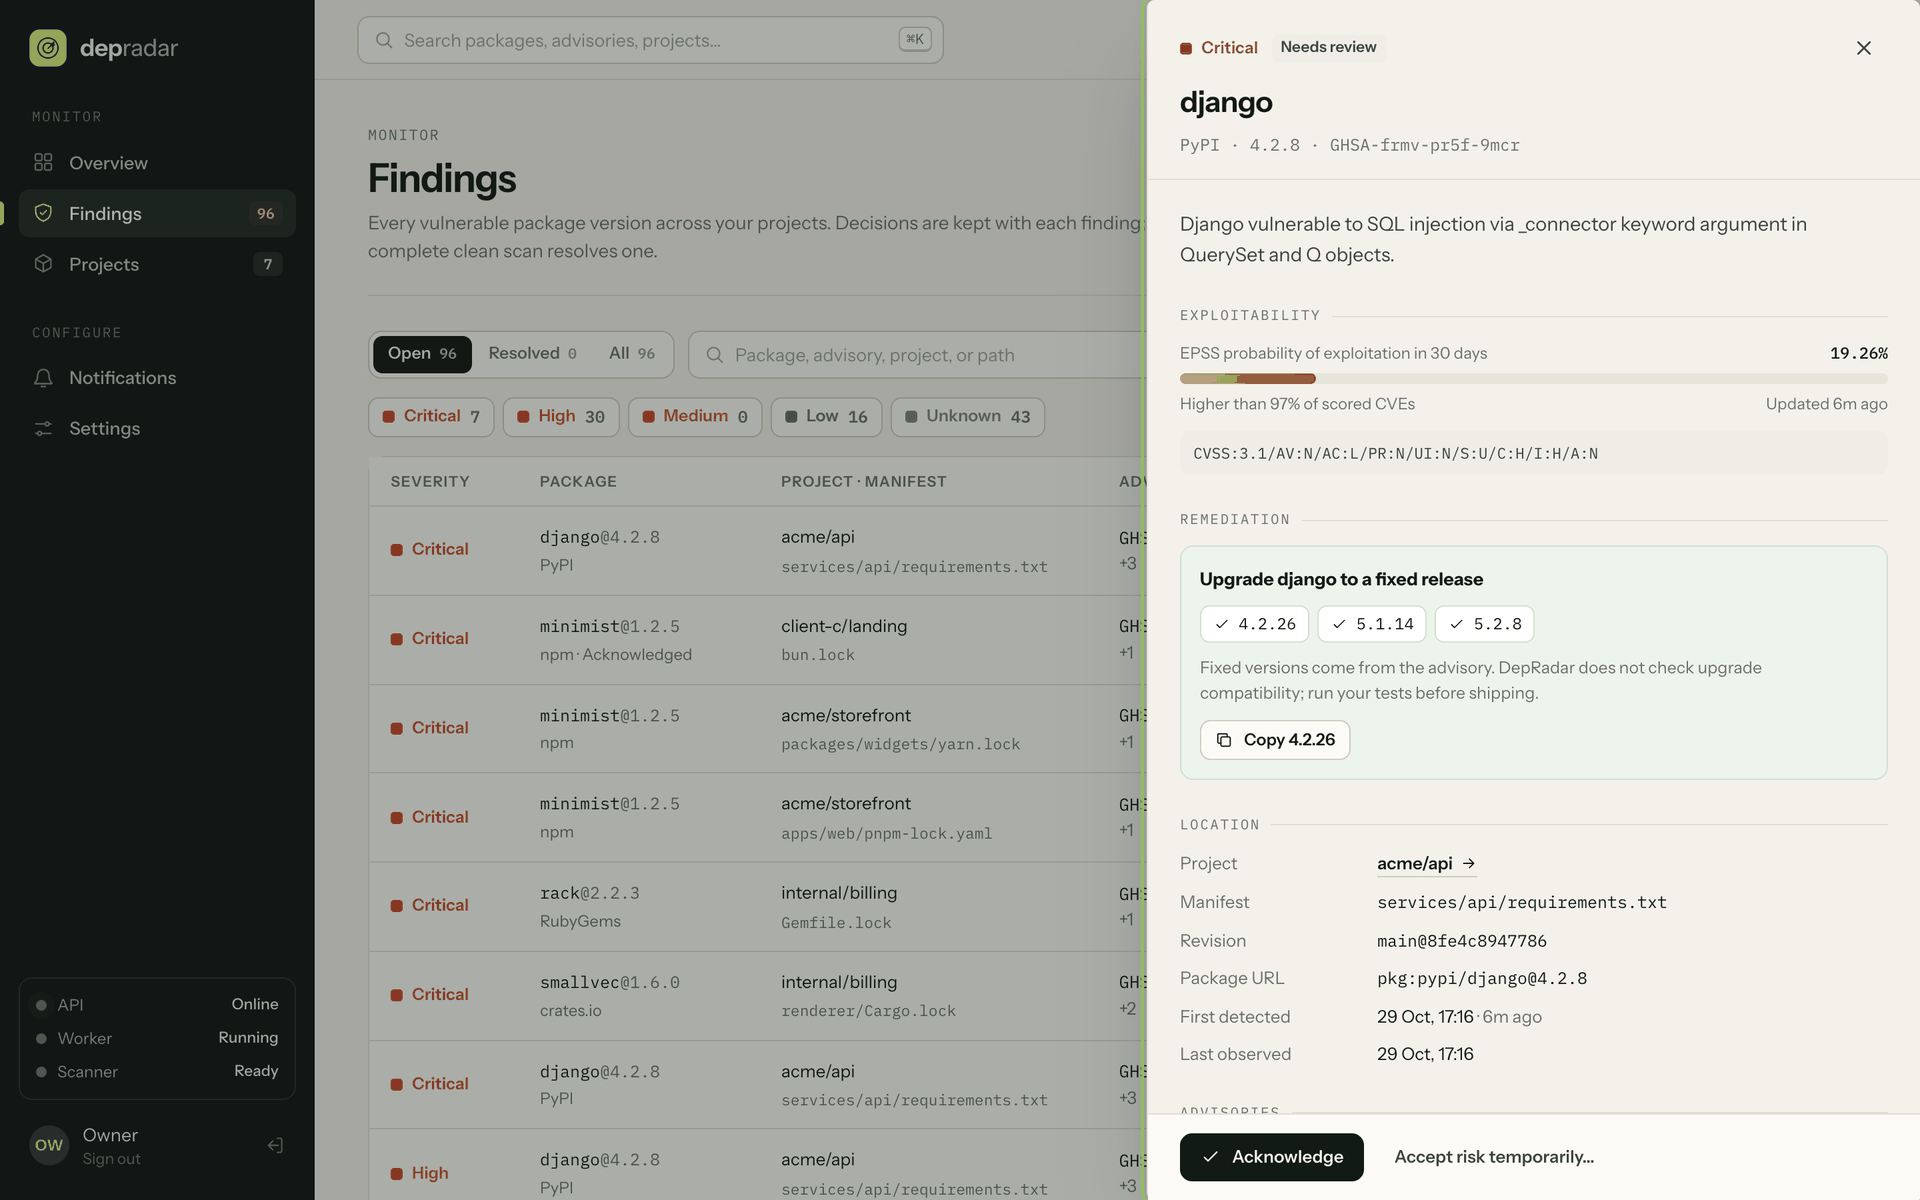
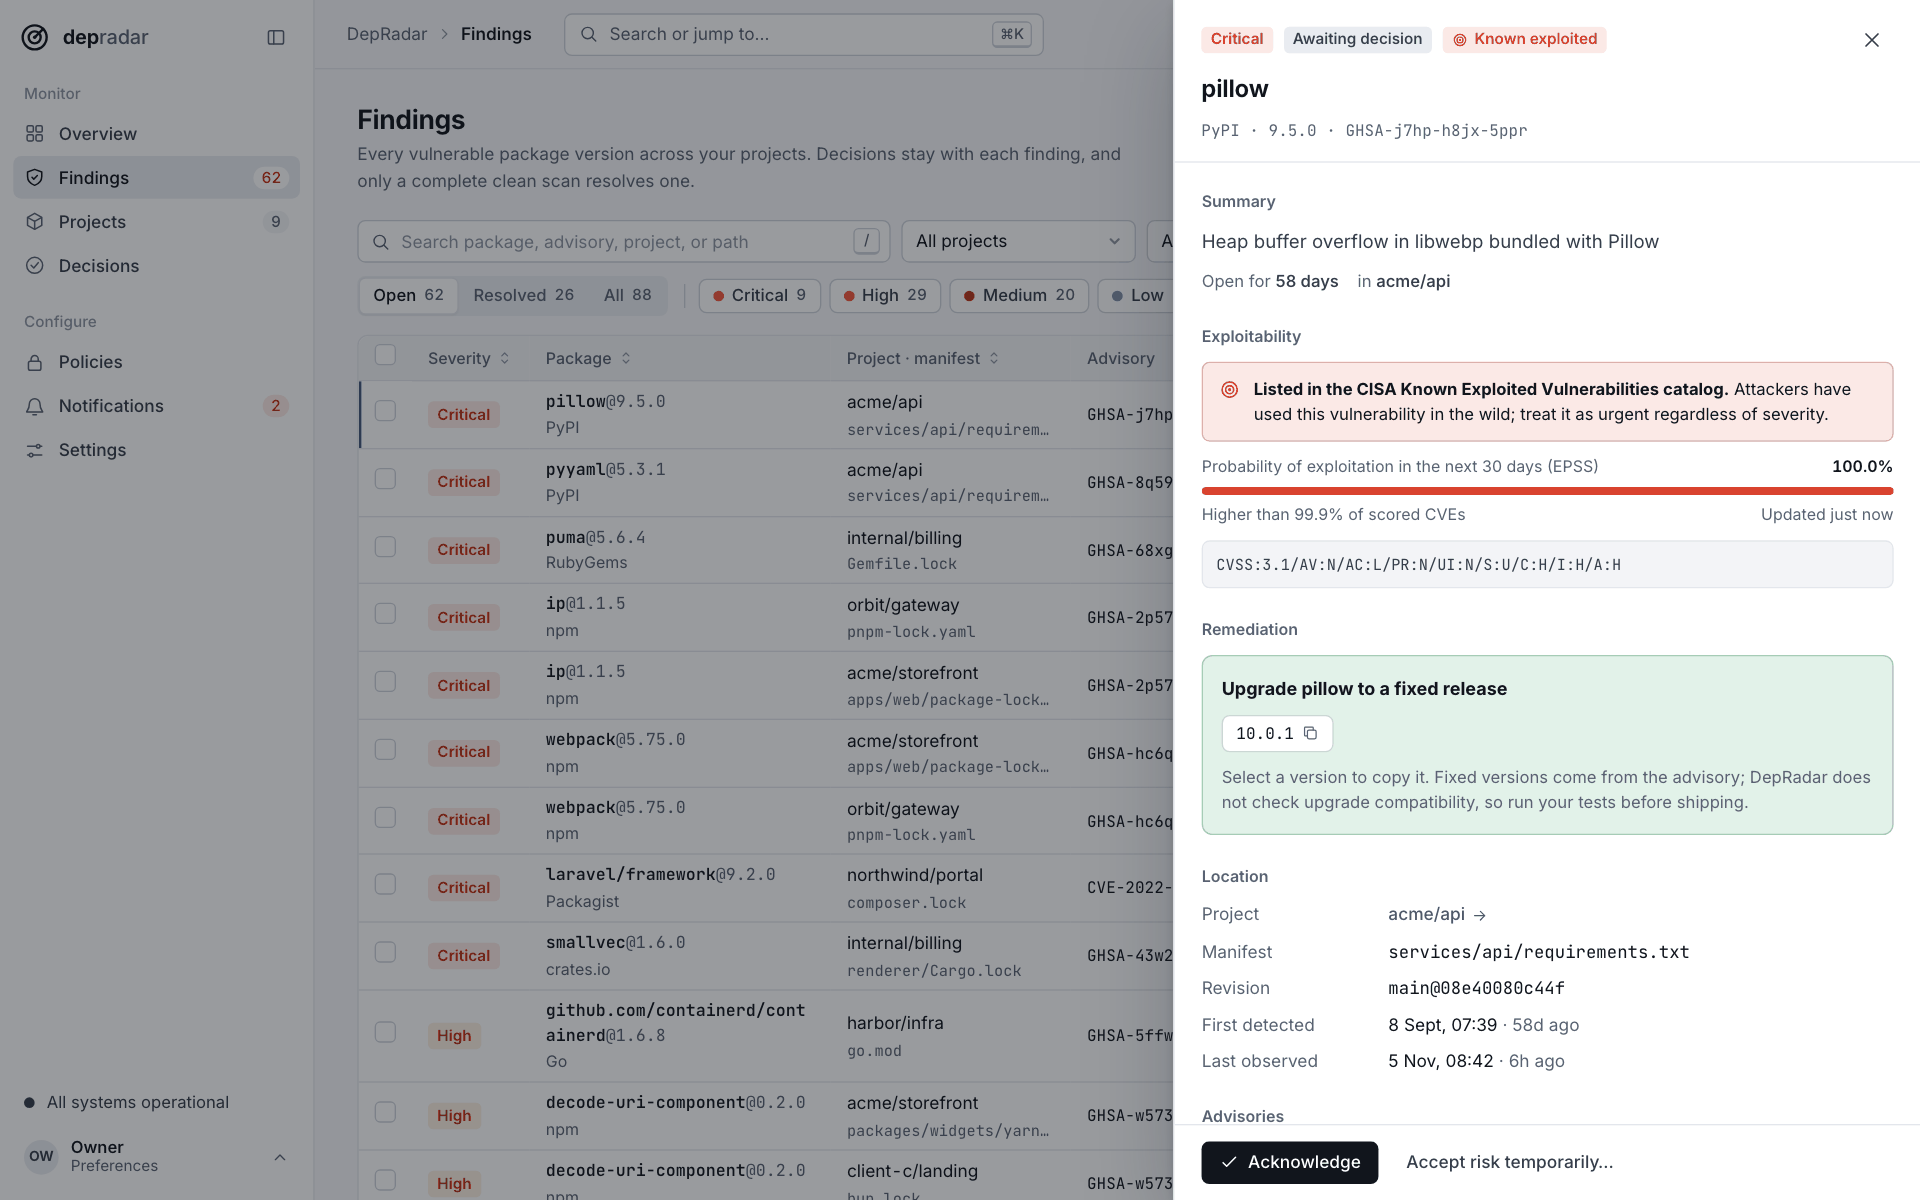
docs: refresh README screenshots

diff --git a/README.md b/README.md
@@ -21,13 +21,13 @@ prove deployed state.
 Captured from a demo installation with fictional client projects, real OSV-Scanner results, and
 live CISA KEV and FIRST EPSS data.
 
-![Risk overview: open findings by severity, exploitation signals, and the projects most exposed](docs/screenshots/overview.png)
+![Overview: open, critical and high, and known-exploited findings, the severity trend over 90 days, finding age, and the projects most at risk](docs/screenshots/overview.png)
 
-| Findings across every project | Finding detail with fix versions and EPSS |
+| Findings across every project | Finding detail with KEV, EPSS, and the fixed version |
 | --- | --- |
-| ![Findings table filtered by status and severity](docs/screenshots/findings.png) | ![Finding drawer with exploitability, remediation, and location](docs/screenshots/finding-detail.png) |
+| ![Findings table with status and severity filters, exploit risk, fixed versions, and decisions](docs/screenshots/findings.png) | ![Finding drawer for a known-exploited Pillow CVE with its EPSS score, fixed version, and location](docs/screenshots/finding-detail.png) |
 | **Project detail** | **Alert channels and policy** |
-| ![Project drawer with open findings, manifests, and highest-priority items](docs/screenshots/project-detail.png) | ![Notifications page with email channel, alert policy, and delivery log](docs/screenshots/notifications.png) |
+| ![Project drawer with open findings, manifests, and highest-priority items](docs/screenshots/project-detail.png) | ![Notifications page with email and Telegram channels, alert policy, and delivery log](docs/screenshots/notifications.png) |
 
 ![CI/CD access settings with scoped pipeline tokens](docs/screenshots/ci-cd-access.png)
 
